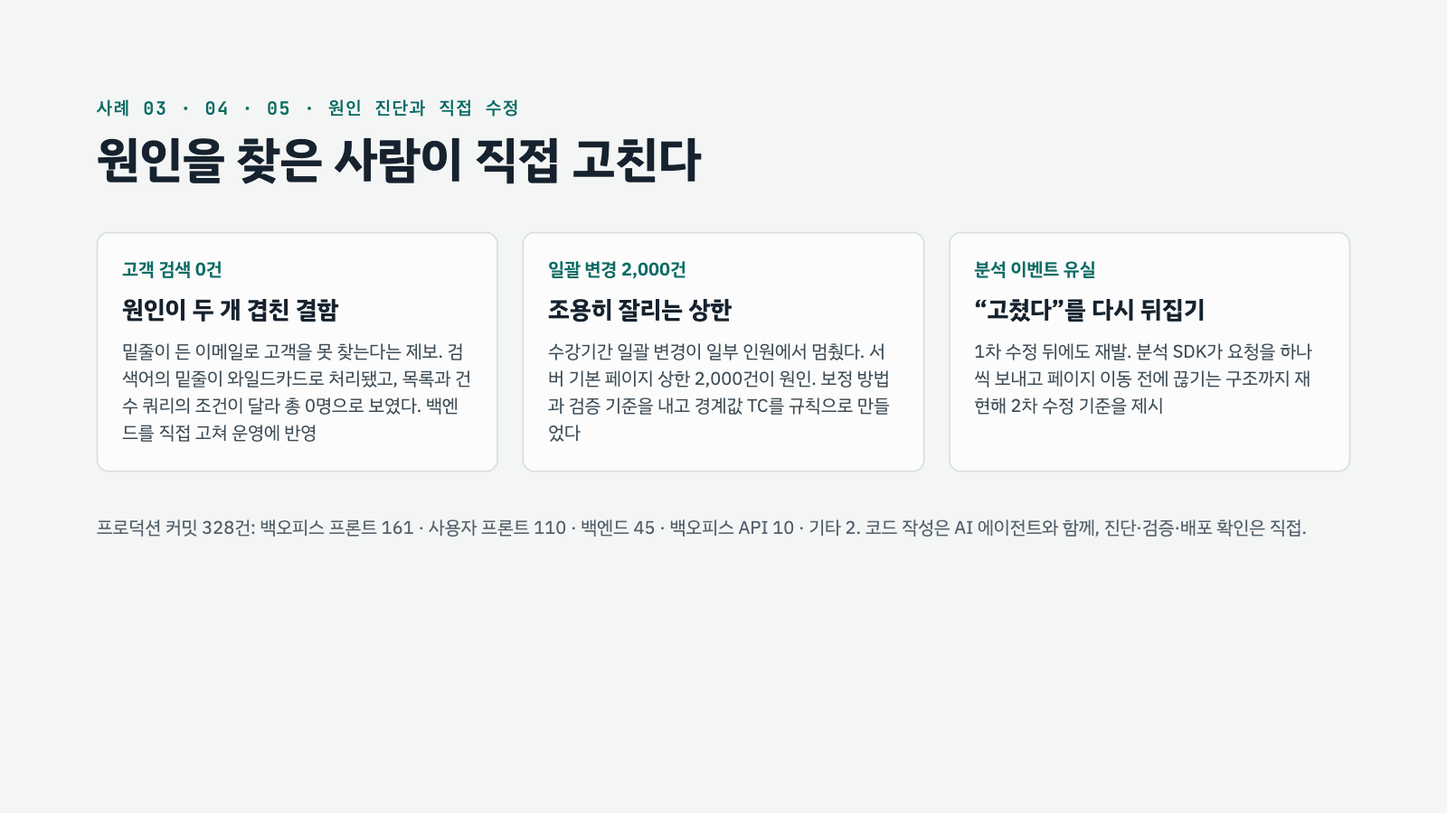
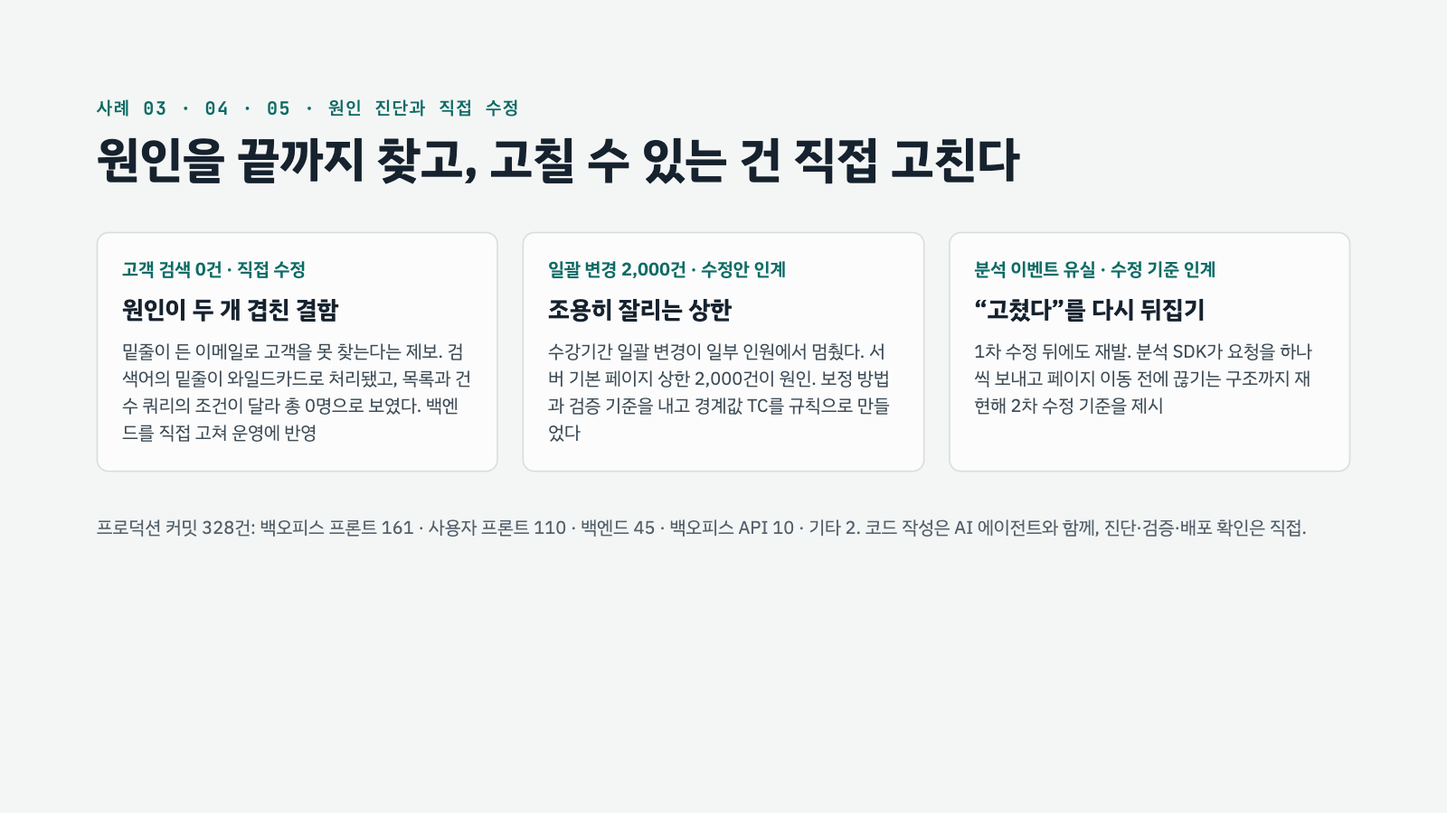
독립 재검토 반영: 판정 방식 정정, 크리티컬 유출률로 이름 정리, 프레이밍·불일치 수정
- 운영 실수 비율: 월별 값과 가드 배포 월 표 추가, 판정은 AI 분류(사람 전수 검수 없음)로 정정
- '결함 유출률' → '크리티컬 유출률'(분모가 전체 운영 배포), 정의 문장을 계산식에 맞춤
- '직접 고친다'를 직접 수정 1건 / 인계 3건으로 나눠 표기, 이력서 첫 줄을 직무에 맞춤
- 만족도 '증명'·'같은 사람들'·'분기 조사' 표현 정리, 사례 01 기간 정정
- 사례 묶음을 닫은 사례 / 기준선·측정 중 / 진단 몫 세 갈래로, 07은 진행 중으로 표기
- 발표 자료 해당 장 갱신

diff --git a/5-presentation/portfolio-deck.html b/5-presentation/portfolio-deck.html
@@ -119,14 +119,14 @@ table.tbl th{font-weight:700}
 </section>
 <section id="numbers">
 <div class="head">
-<p class="eyebrow">숫자로 보는 마지막 3년</p>
+<p class="eyebrow">대표 숫자</p>
 <h2 class="title">원자료로 다시 확인한 네 가지 숫자</h2>
 </div>
 <div class="cols4">
 <div class="card"><p class="big">9.7%</p><h3 class="ctitle">운영 실수로 인한 요청</h3><p class="ctext">2025.12 13.9%에서 −30%. 지원 요청 건수도 전년 대비 −35.6%</p></div>
 <div class="card"><p class="big">328</p><h3 class="ctitle">프로덕션 직접 커밋</h3><p class="ctext">6개 레포, 2026.02~11. 개발 직군이 아닌 상태에서 낸 커밋</p></div>
 <div class="card"><p class="big">290</p><h3 class="ctitle">결제 전수 TC</h3><p class="ctext">과거 결함 101건을 역매핑해 커버리지를 숫자로 증명</p></div>
-<div class="card"><p class="big warn">3.40%</p><h3 class="ctitle">결함 유출률</h3><p class="ctext">운영 배포 206번 중 7번이 크리티컬 결함 긴급 수정. 목표 2% 이하에 미달, 그대로 보고</p></div>
+<div class="card"><p class="big warn">3.40%</p><h3 class="ctitle">크리티컬 유출률</h3><p class="ctext">운영 배포 206번 중 7번이 크리티컬 결함 긴급 수정. 목표 2% 이하에 미달, 그대로 보고</p></div>
 </div>
 <p class="source">출처: 개발본부 지원 채널 인입 전수 분류(2025.12 · 2026.05~10), git 이력(11/5 집계), 2026 상반기 QA 챕터 보고서</p>
 <aside>대표 숫자 네 개입니다. 첫 번째는 운영지원의 결과입니다. 운영자의 설정·조작 실수가 원인인 지원 요청 비율이 작년 12월 13.9%에서 올해 5~10월 9.7%로 30% 줄었고, 지원 요청 건수 자체도 1~10월 기준 전년보다 35.6% 줄었습니다. 다른 요인도 있어서 어드민 개선 하나의 효과라고 하지는 않습니다. 커밋 328건은 git 이력에서 직접 셌습니다. 유출률 3.40%는 목표에 못 미친 숫자인데, 이 숫자를 처음 만든 사람이 저라서 미달도 그대로 보고했습니다.</aside>
@@ -161,7 +161,7 @@ table.tbl th{font-weight:700}
 <section id="escape">
 <div class="head">
 <p class="eyebrow">사례 02 · 품질을 숫자로</p>
-<h2 class="title">측정 체계가 없던 곳에 결함 유출률을 세웠다</h2>
+<h2 class="title">측정 체계가 없던 곳에 크리티컬 유출률을 세웠다</h2>
 </div>
 <div class="formula">
 <p class="fx">7</p><p class="fop">÷</p><p class="fx">206</p><p class="fop">=</p><p class="fx res">3.40%</p>
@@ -172,17 +172,17 @@ table.tbl th{font-weight:700}
 <div class="card hl"><h3 class="ctitle">목표 2%에 미달</h3><p class="ctext">미달을 그대로 보고하고, 측정 한계(검증 없이 나가는 배포, 검증 로그 부재, 임시 임계치)도 함께 적었다</p></div>
 </div>
 <p class="source">출처: 2026 상반기 QA 챕터 안정성 보고서(본인 작성). 보고용 반대 지표: 무사고 배포율 96.60%</p>
-<aside>제가 오기 전에는 QA를 통과하고도 운영에서 터진 결함을 세는 기준이 없었습니다. 회사의 핵심 사용자 경로 문서를 기준으로 크리티컬 영역을 정하고, 그 영역의 핫픽스를 분자, 운영 배포를 분모로 삼았습니다. 결과는 3.40%로 임시 목표 2%에 못 미쳤습니다. 숫자를 좋게 보이도록 기준을 바꾸지 않았고, 대신 무엇을 잴 수 없는지를 같은 보고서에 적어 다음 반기 과제로 넘겼습니다.</aside>
+<aside>제가 오기 전에는 운영에서 터진 결함을 세는 기준이 없었습니다. 원래는 QA를 통과한 변경 중 운영 결함 비율을 재고 싶었지만 워크플로에 QA 상태가 없어서, 운영 배포 전체를 분모로 삼은 크리티컬 유출률로 정의했습니다. 회사의 핵심 사용자 경로 문서를 기준으로 크리티컬 영역을 정하고, 그 영역의 핫픽스를 분자, 운영 배포를 분모로 삼았습니다. 결과는 3.40%로 임시 목표 2%에 못 미쳤습니다. 숫자를 좋게 보이도록 기준을 바꾸지 않았고, 대신 무엇을 잴 수 없는지를 같은 보고서에 적어 다음 반기 과제로 넘겼습니다.</aside>
 </section>
 <section id="rootcause">
 <div class="head">
 <p class="eyebrow">사례 03 · 04 · 05 · 원인 진단과 직접 수정</p>
-<h2 class="title">원인을 찾은 사람이 직접 고친다</h2>
+<h2 class="title">원인을 끝까지 찾고, 고칠 수 있는 건 직접 고친다</h2>
 </div>
 <div class="cols3">
-<div class="card"><p class="tag">고객 검색 0건</p><h3 class="ctitle">원인이 두 개 겹친 결함</h3><p class="ctext">밑줄이 든 이메일로 고객을 못 찾는다는 제보. 검색어의 밑줄이 와일드카드로 처리됐고, 목록과 건수 쿼리의 조건이 달라 총 0명으로 보였다. 백엔드를 직접 고쳐 운영에 반영</p></div>
-<div class="card"><p class="tag">일괄 변경 2,000건</p><h3 class="ctitle">조용히 잘리는 상한</h3><p class="ctext">수강기간 일괄 변경이 일부 인원에서 멈췄다. 서버 기본 페이지 상한 2,000건이 원인. 보정 방법과 검증 기준을 내고 경계값 TC를 규칙으로 만들었다</p></div>
-<div class="card"><p class="tag">분석 이벤트 유실</p><h3 class="ctitle">“고쳤다”를 다시 뒤집기</h3><p class="ctext">1차 수정 뒤에도 재발. 분석 SDK가 요청을 하나씩 보내고 페이지 이동 전에 끊기는 구조까지 재현해 2차 수정 기준을 제시</p></div>
+<div class="card"><p class="tag">고객 검색 0건 · 직접 수정</p><h3 class="ctitle">원인이 두 개 겹친 결함</h3><p class="ctext">밑줄이 든 이메일로 고객을 못 찾는다는 제보. 검색어의 밑줄이 와일드카드로 처리됐고, 목록과 건수 쿼리의 조건이 달라 총 0명으로 보였다. 백엔드를 직접 고쳐 운영에 반영</p></div>
+<div class="card"><p class="tag">일괄 변경 2,000건 · 수정안 인계</p><h3 class="ctitle">조용히 잘리는 상한</h3><p class="ctext">수강기간 일괄 변경이 일부 인원에서 멈췄다. 서버 기본 페이지 상한 2,000건이 원인. 보정 방법과 검증 기준을 내고 경계값 TC를 규칙으로 만들었다</p></div>
+<div class="card"><p class="tag">분석 이벤트 유실 · 수정 기준 인계</p><h3 class="ctitle">“고쳤다”를 다시 뒤집기</h3><p class="ctext">1차 수정 뒤에도 재발. 분석 SDK가 요청을 하나씩 보내고 페이지 이동 전에 끊기는 구조까지 재현해 2차 수정 기준을 제시</p></div>
 </div>
 <p class="sm">프로덕션 커밋 328건: 백오피스 프론트 161 · 사용자 프론트 110 · 백엔드 45 · 백오피스 API 10 · 기타 2. 코드 작성은 AI 에이전트와 함께, 진단·검증·배포 확인은 직접.</p>
 <aside>세 사례 모두 제보에서 출발했습니다. 검색 결함은 원인이 하나라고 생각했으면 반만 고쳤을 겁니다. 2,000건 잘림은 오류 없이 조용히 실패해서 더 위험했고, 이후 경계값 TC를 규칙으로 바꿨습니다. 이벤트 유실은 이미 고쳤다고 닫힌 건이었는데, 재발을 잡고 SDK 전송 구조까지 내려가서 다시 열었습니다. 개발 직군이 아니어서 코드 작성은 AI 에이전트와 함께 했고, 원인 진단과 검증, 배포 확인은 직접 했습니다.</aside>

diff --git a/2-career-flow/README.md b/2-career-flow/README.md
@@ -21,7 +21,7 @@
 
 | 영역 | 3년 동안 한 일 (대표) | 규모 |
 |---|---|---|
-| QA 검수 | 2개 스쿼드 담당 검증, 결함 유출률 지표 신설, 결제 전수 TC, 대형 프로모션 사전 검수 | 챕터 검증 1,136건(3개 스쿼드 팀 합산, 2026 상반기) · 본인 등록 티켓 3,316건(전 기간) |
+| QA 검수 | 2개 스쿼드 담당 검증, 크리티컬 유출률 지표 신설, 결제 전수 TC, 대형 프로모션 사전 검수 | 챕터 검증 1,136건(3개 스쿼드 팀 합산, 2026 상반기) · 본인 등록 티켓 3,316건(전 기간) |
 | FE 개발 | 사용자 웹(Next.js)·운영 백오피스(Nuxt 3) 결함 수정과 운영 개선 기능 | 커밋 271건 |
 | BE 개발 | 검색·통계·알림·수강 관리 API 수정(Java/Kotlin Spring) | 커밋 55건 |
 | 기획 | PRD, 정책서, 인터랙티브 와이어프레임, 결정 요청 문서 | PRD 12건+ · 정책서 6건+ |
@@ -39,7 +39,14 @@
 | 지표 | 전 | 후 | 변화 |
 |---|---|---|---|
 | 지원 채널 요청 건수 (1~10월 합계) | 2025년 1,202건 | 2026년 774건 | **−35.6%** (접수 양식이 생긴 뒤인 6~10월끼리 비교하면 −38.2%) |
-| 운영 실수가 원인인 요청 비율 | 2025.12 13.9% (15/108) | 2026.05~10 누적 9.7% (34/349) | **−30%** |
+| 운영 실수가 원인인 요청 비율 | 2025.12 13.9% (15/108) | 2026.05~10 합산 9.7% (34/349) | **−30%** (월별은 아래 표) |
+
+| 월 | 2025.12 | 2026.05 | 06 | 07 | 08 | 09 | 10 |
+|---|---|---|---|---|---|---|---|
+| 운영 실수 비율 | 13.9% (15/108) | 12.3% (7/57) | 9.6% (8/83) | 2.6% (2/76) | 미측정 | 15.5% (11/71) | 9.7% (6/62) |
+| 그 달 배포한 가드 | — | — | 과제 양식 변경 시 기존 과제 삭제 차단 | — | — | 팝업 노출 시각 표기 수정 | 필수 강의 수강률 0% 저장 차단, 설문 설명 글자 수 사전 안내 |
+
+기준을 2025.12 한 달로 잡은 것은 이 정의로 처음 잰 달이 12월이라서다. 2026년 1~4월은 재지 않았다.
 
 **무엇을 했나**
 - **실수가 나던 자리에 가드를 넣었다**(프론트 단독은 직접 구현, 서버 변경은 개발자와 함께) — 필수 강의 수강률 0% 저장 차단, 설문 설명 글자 수 초과를 저장 전에 안내, 과제 양식 변경 시 기존 과제가 지워지던 경로 차단, 팝업 노출 시각 표기 오류 수정 등. 만족도 조사 의견에서 출발해 코드에서 원인을 확인한 것들이다([사례 01](cases/01-backoffice-as-product.md)).
@@ -55,8 +62,8 @@
 - **문의마다 원인을 판정했다** — 시스템 결함인지 운영 실수인지, 운영 조치로 끝낼지 개발이 필요한지까지 정리하고, 판정 형식을 도구로 고정했다.
 
 **읽을 때 주의**
-- 운영 실수 비율은 같은 정의(운영자의 설정·조작 실수 또는 동작 오해가 주원인. 가드가 없어 실수가 통과한 건 포함, 고객 오사용·개발 실수·원인 미확인 제외)로 스레드 결론을 AI가 1차 분류하고 한 사람이 다시 판정했다. 2026년 8월은 측정하지 않았다.
-- 월 2~15건 규모라 1건에 1~2%p씩 흔들린다. 9월에는 15.5%로 다시 올랐다.
+- 운영 실수 비율은 같은 정의(운영자의 설정·조작 실수 또는 동작 오해가 주원인. 가드가 없어 실수가 통과한 건 포함, 고객 오사용·개발 실수·원인 미확인 제외)로 **AI가 스레드 결론을 읽고 분류한 값**이다. 월별로 나눠 분류한 뒤 같은 정의로 한 번 더 일괄 재판정했고(1차 대비 −11 / +1건), 사람이 전수 검수하지는 않았다. 경계 사례를 넣고 빼면 10월 기준 8.1~12.9%로 움직인다.
+- 월 2~15건 규모라 1건에 1~2%p씩 흔들린다. 9월에는 15.5%로 기준선보다 높았다. 가드를 배포한 달 다음에 비율이 내려간 경우(6월 → 7월)도, 그렇지 않은 경우도 있어서 가드와 비율의 인과는 주장하지 않는다.
 - 요청 건수 감소를 어드민 개선 하나의 효과로 주장하지 않는다. 같은 기간 조직·상품 구성도 바뀌었다. 내가 말할 수 있는 것은 "운영 실수 비율을 같은 정의로 재기 시작했고, 그 기간에 비율과 요청이 함께 줄었다"까지다.
 
 ---
@@ -65,7 +72,7 @@
 
 | 한 일 | 결과 |
 |---|---|
-| 결함 유출률을 **QA 챕터 지표로 정의**하고 3개 스쿼드에 적용 | 유출률 3.40%(목표 2%). **미달도 그대로 보고** [실측] → [사례 02](cases/02-measuring-escape-rate.md) |
+| 크리티컬 유출률을 **QA 챕터 지표로 정의**하고 3개 스쿼드에 적용 | 유출률 3.40%(목표 2%). **미달도 그대로 보고** [실측] → [사례 02](cases/02-measuring-escape-rate.md) |
 | 결제 영역 전수 TC 290건: 레거시 결제 흐름을 지도화하고 **과거 이슈 101건을 역매핑**해 커버리지 증명 | 동료가 도입한 E2E 기반 위에 36건 자동화, **자동화 실패 2건이 모두 실결함** [실측] |
 | 대형 시즌 프로모션 29종 상품의 4단계 가격 설계 교차 검증 | 종료일 오타·옵션명 오기 등 **이상값 8건을 오픈 전 차단** [실측] |
 | 사내 메시지 발송 도구 QA → 발송 사고 후 TC 설계 기준 재수립 | 유형 매트릭스·미지원 가드·폴백 은폐·폴백 내용 4묶음, 2차 TC 204건 설계, 그중 배포된 범위 43건 수행(통과 29 · 실패 6 · 미수행 8) → [사례 07](cases/07-fallback-masked-as-success.md) |
@@ -137,22 +144,27 @@
 
 사례를 두 묶음으로 나눴다. 진단과 반영은 다른 문제라, 반영까지 닫은 사례와 **원인 규명 · 수정안 · 결정 요청까지가 내 몫**이었던 사례를 섞지 않는다.
 
-### 결과까지 닫은 사례
+### 반영·결과까지 닫은 사례
 
 | # | 사례 | 영역 | 결과 |
 |---|---|---|---|
-| 01 | [사내 백오피스를 프로덕트로 운영하기](cases/01-backoffice-as-product.md) | 기획·FE·데이터 | 개선 PR 25 → 49건, 의견 처리 결과 회신, 만족도 8.23 → 9.33(보조) |
 | 04 | [고객 검색이 안 된다 — 원인 두 개](cases/04-search-zero-results.md) | BE | 직접 수정 · 운영 반영 |
-| 02 | [측정 체계가 없던 곳에 품질 지표 세우기](cases/02-measuring-escape-rate.md) | QA·데이터 | 유출률 기준선 3.40% (미달 공개) |
-| 09 | [개발자가 첫 화면에서 이해하는 결함 티켓](cases/09-ticket-writing-principle.md) | QA·협업 | 작성 규칙 정착 |
-| 10 | [AI 답변을 재 보니 문제는 찾기였다 — RAG 평가](cases/10-rag-evaluation.md) | AI 평가·QA | 병목=찾기 실측(22~25 vs 36/40) · 채점자 "검증 중" |
-| 08 | [AI 코딩 에이전트로 QA 업무 재설계](cases/08-ai-agent-qa-workflow.md) | AI 하네스 | 로그 실측 → 7건 개선 · 측정 방식 정정 (본 측정 12월) |
+| 01 | [사내 백오피스를 프로덕트로 운영하기](cases/01-backoffice-as-product.md) | 기획·FE·데이터 | 개선 PR 25 → 49건, 9월 의견 20건 중 12건 처리, 만족도 8.23 → 9.33(보조) |
+| 09 | [개발자가 첫 화면에서 이해하는 결함 티켓](cases/09-ticket-writing-principle.md) | QA·협업 | 개발자 피드백을 작성 규칙으로 고정 |
+| 10 | [AI 답변을 재 보니 문제는 찾기였다 — RAG 평가](cases/10-rag-evaluation.md) | AI 평가·QA | 실험·발표 완료, 병목=찾기 실측(22~25 vs 36/40). 채점자 일치율만 "검증 중" |
+
+### 기준선을 세웠고, 개선 측정은 진행 중인 사례
+
+| # | 사례 | 영역 | 지금까지 |
+|---|---|---|---|
+| 02 | [측정 체계가 없던 곳에 품질 지표 세우기](cases/02-measuring-escape-rate.md) | QA·데이터 | 크리티컬 유출률 기준선 3.40% (목표 2% 미달 공개) |
+| 08 | [AI 코딩 에이전트로 QA 업무 재설계](cases/08-ai-agent-qa-workflow.md) | AI 하네스 | 로그 실측 → 7건 개선, 1주 중간 측정(본 측정 12월) |
 
 ### 진단·결정 요청까지가 내 몫이었던 사례 — 진단 역량
 
 | # | 사례 | 영역 | 내 몫의 끝 |
 |---|---|---|---|
-| 07 | ["발송 성공"의 대부분이 대체 문자였다](cases/07-fallback-masked-as-success.md) | QA | TC 기준 4묶음 → 2차 QA 43건(실패 6건 배포 전 발견) |
+| 07 | ["발송 성공"의 대부분이 대체 문자였다](cases/07-fallback-masked-as-success.md) | QA | TC 기준 4묶음 → 2차 QA 진행 중(설계 204건 중 43건 수행, 실패 6건) |
 | 03 | [페이지 이동 직전 분석 이벤트 유실](cases/03-event-loss-before-navigation.md) | FE·데이터 | 재발 원인 재현 · 2차 수정 기준 인계 |
 | 05 | [2,000건에서 조용히 잘리는 일괄 변경](cases/05-silent-2000-cap.md) | FE·BE·QA | 원인·보정안·근본 수정안 인계 |
 | 06 | [알림 금액과 결제 금액이 다르다 — 재발한 이유](cases/06-price-snapshot-recurrence.md) | 기획·QA | 정책 결정 요청 인계 |

diff --git a/README.md b/README.md
@@ -4,17 +4,17 @@
 > 결함을 찾는 데서 끝내지 않고 **원인을 코드에서 찾아 직접 고치고, 운영 지표로 다시 잽니다.**
 > 마지막 해에는 AI 에이전트 위에 규칙·검증·측정 구조를 세워, 원인 진단부터 수정·배포 확인·재발 방지까지 한 흐름으로 돌렸고, AI가 만든 결과(TC 생성·RAG 답변·추천 점수)가 맞는지 재는 일도 맡았습니다.
 
-| 운영 실수로 인한 지원 요청 | 결제 전수 TC | 프로덕션 직접 커밋 | 결함 유출률 | AI 하네스 |
+| 운영 실수로 인한 지원 요청 | 결제 전수 TC | 프로덕션 직접 커밋 | 크리티컬 유출률 | AI 하네스 |
 |---|---|---|---|---|
-| **13.9% → 9.7%** · 지원 요청 건수도 전년 대비 −35.6% (어드민 가드 + 운영 안내) | **290건** · 과거 결함 101건 역매핑 | **328건** · 6개 레포 | **3.40%** · 운영 배포 206번 중 7번이 크리티컬 결함 긴급 수정 (목표 2% 이하, 미달) | 독립 검증 에이전트로 변경 13건 검증 · 머지 전 차단 2건 |
+| **13.9% → 9.7%** (2025.12 한 달 → 2026.05~10 합산) · 지원 요청 건수도 전년 대비 −35.6% | **290건** · 과거 결함 101건 역매핑 | **328건** · 6개 레포 | **3.40%** · 운영 배포 206번 중 7번이 크리티컬 결함 긴급 수정 (목표 2% 이하, 미달) | 독립 검증 에이전트로 변경 13건 검증 · 머지 전 차단 2건 |
 
 ## 한 번에 보는 흐름 — 발표와 같은 6단
 
 | 단계 | 하는 말 | 근거 문서 |
 |---|---|---|
 | 1 | 누구이고 5년 동안 무엇을 했나 | [이력서](이력서.md) · [경력기술서](2-career-flow/경력기술서.md) |
-| 2 | 운영 도구와 품질을 숫자로 관리했다 | [운영지원 결과](2-career-flow/README.md#운영지원--결과로-본-변화) · [사례 01 백오피스 개선](2-career-flow/cases/01-backoffice-as-product.md) · [사례 02 결함 유출률](2-career-flow/cases/02-measuring-escape-rate.md) |
-| 3 | 원인을 찾아 직접 고치고, 운영 문의를 닫는다 | [사례 03](2-career-flow/cases/03-event-loss-before-navigation.md) · [04](2-career-flow/cases/04-search-zero-results.md) · [05](2-career-flow/cases/05-silent-2000-cap.md) · [07](2-career-flow/cases/07-fallback-masked-as-success.md) · [09](2-career-flow/cases/09-ticket-writing-principle.md) |
+| 2 | 운영 도구와 품질을 숫자로 관리했다 | [운영지원 결과](2-career-flow/README.md#운영지원--결과로-본-변화) · [사례 01 백오피스 개선](2-career-flow/cases/01-backoffice-as-product.md) · [사례 02 크리티컬 유출률](2-career-flow/cases/02-measuring-escape-rate.md) |
+| 3 | 원인을 끝까지 찾는다 — 직접 수정 1건(04), 원인 재현·수정안 인계 3건(03·05·06), 사고를 TC 기준으로(07), 티켓 규칙(09) | [사례 03](2-career-flow/cases/03-event-loss-before-navigation.md) · [04](2-career-flow/cases/04-search-zero-results.md) · [05](2-career-flow/cases/05-silent-2000-cap.md) · [07](2-career-flow/cases/07-fallback-masked-as-success.md) · [09](2-career-flow/cases/09-ticket-writing-principle.md) |
 | 4 | AI를 규칙·검증·측정이 있는 업무 시스템으로 돌린다 | [사례 08](2-career-flow/cases/08-ai-agent-qa-workflow.md) · [이식 가이드](1-ai-workflow-guide/README.md) |
 | 5 | AI가 만든 결과가 맞는지 잰다 | [사례 10 RAG 평가](2-career-flow/cases/10-rag-evaluation.md) · [사례 11 온톨로지 검토](2-career-flow/cases/11-ontology-review.md) · [내가 가져가는 것 5절](3-why-me/README.md#5-ai-결과물을-재는-법) |
 | 6 | 숫자를 다루는 원칙과 합류 후 90일 | [내가 가져가는 것](3-why-me/README.md) |

diff --git a/이력서.md b/이력서.md
@@ -1,6 +1,6 @@
 # 이력서 — 한지만
 
-> QA 엔지니어 5년. 결함을 찾는 데서 멈추지 않고, 원인을 코드에서 찾아 직접 고치고, 운영 지표로 다시 잽니다.
+> QA 5년, 최근 3년은 QA와 운영지원을 함께 맡았습니다. 원인을 코드에서 찾고, 고칠 수 있는 건 직접 고치고, 운영 지표로 다시 잽니다.
 
 | 항목 | 내용 |
 |---|---|
@@ -15,7 +15,7 @@
 
 ## 핵심 역량
 
-- **품질을 숫자로 관리** — 측정 체계가 없던 곳에 결함 유출률 지표를 세우고, 목표 미달(3.40%, 목표 2%)까지 그대로 보고
+- **품질을 숫자로 관리** — 측정 체계가 없던 곳에 크리티컬 유출률 지표를 세우고, 목표 미달(3.40%, 목표 2%)까지 그대로 보고
 - **운영 문의를 닫는 운영지원** — 운영 실수가 원인인 지원 요청 비율 **13.9% → 9.7%**(−30%), 지원 요청 건수 전년 대비 **−35.6%**. 실수가 나던 자리에 어드민 가드를 넣고, 정책·사용법 안내·새 기능 시연·운영 문제 대응을 운영 부서에 직접 공유(345건+). 문의마다 원인을 "시스템 결함 / 운영 실수"로 판정하는 절차를 도구로 고정
 - **운영 도구를 프로덕트로** — 백오피스 KR 오너로 월간 의견 조사·개선 사이클을 운영해 개선 PR 머지 **25 → 49건**, 만족도 8.23 → 9.33(보조 지표, 최종 회차 15명 응답)
 - **원인 진단과 직접 수정** — 프로덕션 레포 6곳에 **직접 커밋 328건**(2026.02~11). 진단·검증·배포 확인은 직접, 코드 작성은 AI 에이전트와 함께
@@ -33,7 +33,7 @@
 
 - QA → 릴리스·일정 관리 → QA 리드(채용 평가·온보딩) → 기획 → 백오피스 KR 오너로 역할 확장
 - 백오피스 개선: 만족도 **8.23 → 9.33**(월간 6회), 개선 PR 머지 **+96%**(반기 대비, 팀 합계)
-- 품질 지표 신설: 결함 유출률 3.40%(운영 배포 206번 중 7번이 크리티컬 결함 긴급 수정, 목표 2% 이하 미달), 사내 지원 요청 4개 유형 분류를 공통 원천 데이터로 정착
+- 품질 지표 신설: 크리티컬 유출률 3.40%(운영 배포 206번 중 7번이 크리티컬 결함 긴급 수정, 목표 2% 이하 미달), 사내 지원 요청 4개 유형 분류를 공통 원천 데이터로 정착
 - 프로덕션 직접 커밋 **328건**: 백오피스 프론트 161 · 사용자 프론트 110 · 백엔드 45 · 백오피스 API 10 · 기타 2개 레포 2
 - PRD 12건+·정책서 6건+ (알림 발송 내재화, 쿠폰 자동 적용, 수강률 산정 기준, 환불 정책 등)
 - 데이터 기반 결정: 프로모션 결제 기여 실측(홈 배너 14.7% vs 플로팅 창 2.16%)으로 다음 시즌 배치 변경, 판매 상품 29종 가격 설계 교차 검증으로 이상값 8건 오픈 전 차단

diff --git a/2-career-flow/cases/02-measuring-escape-rate.md b/2-career-flow/cases/02-measuring-escape-rate.md
@@ -2,7 +2,7 @@
 
 **역할**: QA 챕터 지표 설계 · 산출
 **기간**: 2026 상반기
-**한 줄**: "QA가 잘 막고 있나"를 판단할 숫자가 없던 곳에 결함 유출률을 QA 챕터 지표로 세워 3개 스쿼드(검증 1,136건 규모)에 적용했고, 목표 미달도 그대로 보고했다.
+**한 줄**: "QA가 잘 막고 있나"를 판단할 숫자가 없던 곳에 크리티컬 유출률을 QA 챕터 지표로 세워 3개 스쿼드(검증 1,136건 규모)에 적용했고, 목표 미달도 그대로 보고했다.
 
 ---
 
@@ -11,14 +11,14 @@
 - 이슈 트래커 워크플로에 "QA 중" 상태가 없어, 티켓이 `진행 전 → 완료`로 바로 넘어갔다. QA 리드타임을 시스템에서 뽑을 수 없는 구조였다.
 
 ## 접근
-1. **지표를 문장으로 먼저 정의** — 결함 유출률: QA를 통과하고도 운영에서 결함이 발견된 비율("새어 나간 것"). 경영 보고용으로는 같은 값을 반대 방향에서 본 무사고 배포율로도 표기했다. 두 숫자는 합이 100%라 **지표는 하나**다.
+1. **지표를 문장으로 먼저 정의** — 크리티컬 유출률: 운영 배포 중 크리티컬 영역(결제·상세페이지·수강·커뮤니티 홈)에서 핫픽스가 필요했던 비율. 원래 재고 싶던 "QA를 통과한 변경 중 운영 결함" 비율은 워크플로에 QA 상태가 없어 분모를 만들 수 없었다(아래 2번). 경영 보고용으로는 같은 값을 반대 방향에서 본 무사고 배포율로도 표기했다. 두 숫자는 합이 100%라 **지표는 하나**다.
 2. **측정할 수 없는 지표는 "측정 불가"로 명시** — 리드타임은 상태 이력이 없어 추정치를 만들지 않았다. 대신 워크플로에 QA 상태가 없다는 사실 자체를 개선 과제로 올렸다.
 3. **원천 데이터를 하나로** — 챕터 주간 미팅에서 쓰던 지원 요청 4개 유형 분류(운영 실수 / 버그 / 협업 요청 / 정책 문의)를 구성원 목표의 공통 원천 데이터로 정했다. 사람마다 다른 목표가 같은 데이터를 보게 했다.
 
 ## 결과
 | 지표 | 실측 | 목표 |
 |---|---|---|
-| 결함 유출률 | **3.40%** | 2% (미달) |
+| 크리티컬 유출률 | **3.40%** | 2% (미달) |
 | (보고용 표기) 무사고 배포율 | 96.60% | 98% |
 
 - 식: **크리티컬 영역 핫픽스 7건 ÷ 6개 레포 운영 배포 206건 = 3.40%** (2026 상반기, 3개 스쿼드). 크리티컬 영역은 회사의 핵심 사용자 경로 문서 기준(결제·상세페이지·수강·커뮤니티 홈)이고, 같은 기간 핫픽스 9건 중 일반 영역 2건은 뺐다.

diff --git a/4-qa-playbook/05-quality-metrics.md b/4-qa-playbook/05-quality-metrics.md
@@ -25,7 +25,7 @@
 | 측정 불가 | 리드타임 — 워크플로에 "QA 중" 상태가 없어 측정 불가 → 상태 추가를 개선 과제로 |
 | 쓰면 안 되는 곳 | 기간 중간에 프로세스·도구가 바뀌었으면 전후 효과 주장에 쓰지 않는다 |
 
-> 위 분자·분모는 다음 팀에서 쓸 **권장 정의**다. 전 직장 실측 3.40%는 크리티컬 영역 핫픽스 7건 ÷ 6개 레포 운영 배포 206건(2026 상반기)이었다.
+> 위 분자·분모는 다음 팀에서 쓸 **권장 정의**다. 전 직장 실측 3.40%는 크리티컬 영역 핫픽스 7건 ÷ 6개 레포 운영 배포 206건(2026 상반기)이었다. 분모가 QA 통과 변경이 아니라 전체 운영 배포라서, 위 권장 정의와 다르다.
 
 ## 쓰지 않을 때
 - 표본이 작을 때(월 배포 수십 건 이하) — 결함 1건이 퍼센트를 크게 흔든다. 건수와 함께 보고한다.

diff --git a/2-career-flow/cases/01-backoffice-as-product.md b/2-career-flow/cases/01-backoffice-as-product.md
@@ -1,8 +1,8 @@
 # 사내 백오피스를 프로덕트로 운영하기 — 만족도 8.23 → 9.33
 
 **역할**: 백오피스 개선 KR 오너 (조사 설계 · 원인 진단 · 범위 분류 · 일부 직접 구현 · 배포 확인)
-**기간**: 2025 하반기 ~ 2026
-**한 줄**: 요청 처리 창구였던 사내 운영 도구에 사용자·지표·반복 사이클을 붙였다. 같은 사람들에게 같은 질문을 반복하며 수치 변화를 만들었다. 구현은 개발자들과 나눠 했다.
+**기간**: 2026 (월간 조사 2026.04~10, 5월 미실시)
+**한 줄**: 요청 처리 창구였던 사내 운영 도구에 사용자·지표·반복 사이클을 붙였다. 같은 질문을 매달 반복했고, 결과는 지원 요청 데이터로 다시 쟀다. 구현은 개발자들과 나눠 했다.
 
 ---
 

diff --git a/5-presentation/README.md b/5-presentation/README.md
@@ -31,7 +31,7 @@
 
 ![4. 백오피스 만족도](img/slide-04.png)
 
-![5. 결함 유출률](img/slide-05.png)
+![5. 크리티컬 유출률](img/slide-05.png)
 
 ## 3. 원인을 찾아 고치고 운영 문의를 닫는다
 
